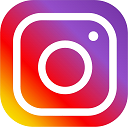
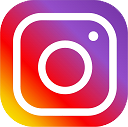
UI button update (#118)
* Fixed the twitter logo so it is no longer stretched, updated instagram logo to give it a transparent background. Changed logo size to prevent cutout

* Added hover states for almost all buttons, changed cursor type in places where cursor was previously unchanged, added transitions for hover states

diff --git a/extension/public/popup.css b/extension/public/popup.css
@@ -29,6 +29,11 @@ header {
 
 .logo a img {
   height: 36px;
+  transition: 0.4s;
+}
+
+.logo a img:hover {
+  height: 40px;
 }
 
 .version {
@@ -39,12 +44,19 @@ header {
 }
 
 .version span {
+  margin-left: 25%;
   font-size: 16px;
 }
 
 .version img {
   height: 18px;
   cursor: pointer;
+  transition: 0.4s;
+}
+
+.version img:hover {
+  height: 22px;
+  opacity: 0.75;
 }
 
 /*------- Content -------*/
@@ -98,11 +110,12 @@ h3 {
 }
 
 .sites .toggle-list .toggle-item img {
-  width: 36px;
-  height: 36px;
+  width: 32px;
+  height: 32px;
 }
 
 .sites button {
+  align-self: flex-end;
   margin-top: 10px;
   text-decoration: underline;
   border: 0;
@@ -112,7 +125,7 @@ h3 {
   font-weight: 500;
 
   cursor: pointer;
-  transition: 0.2s ease;
+  transition: 0.4s;
 }
 
 .sites button:hover {
@@ -145,12 +158,19 @@ h3 {
   margin-top: 16px;
 }
 
-.keywords .btn-container button {
+.keywords .list-choose-btn {
   width: 50%;
   background-color: #999999;
   border: none;
   color: white;
   padding: 8px;
+  transition: 0.4s;
+
+  cursor: pointer;
+}
+
+.keywords .list-choose-btn:hover {
+  background-color: #111111bf;
 }
 
 .keywords .tags {
@@ -211,8 +231,13 @@ h3 {
   border: none;
   border-radius: 10px;
   padding: 8px;
+  transition: 0.4s;
 
   cursor: pointer;
+}
+
+.keywords .manage-tag-list-btn:hover{
+  background-color: #2196f3bf;
 }
 
 .keywords .manage-tag-list-btn:active {
@@ -243,10 +268,20 @@ h3 {
 
 #saveTagsBtn {
   background-color: #2196f3;
+  transition: 0.4s;
+}
+
+#saveTagsBtn:hover {
+  background-color: #2196f3bf;
 }
 
 #cancelTagsBtn {
   background-color: #999999;
+  transition: 0.4s;
+}
+
+#cancelTagsBtn:hover {
+  background-color: #999999bf;
 }
 /*------- Footer -------*/
 
@@ -270,6 +305,13 @@ footer a {
   font-weight: 500;
   font-size: 16px;
   text-decoration: underline;
+  transition: 0.4s;
+}
+
+footer a:hover {
+  /*color: #fde8b6;*/
+  color: rgba(255, 255, 255, 0.75);
+  font-size: 18px;
 }
 
 footer img {

diff --git a/extension/public/popup.html b/extension/public/popup.html
@@ -102,8 +102,8 @@
         <div class="keywords-content">
           <h3>Keywords</h3>
           <div class="btn-container">
-            <button id="allowedBtn">Allowed</button>
-            <button id="blockedBtn">Blocked</button>
+            <button class="list-choose-btn" id="allowedBtn">Allowed</button>
+            <button class="list-choose-btn" id="blockedBtn">Blocked</button>
           </div>
           <div class="tags">
             <div class="tag-list" id="tagList"></div>
